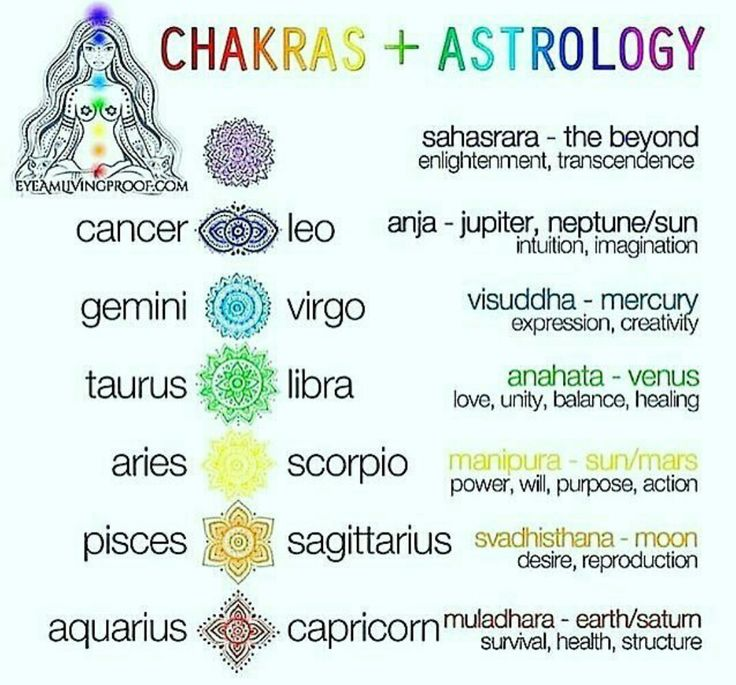
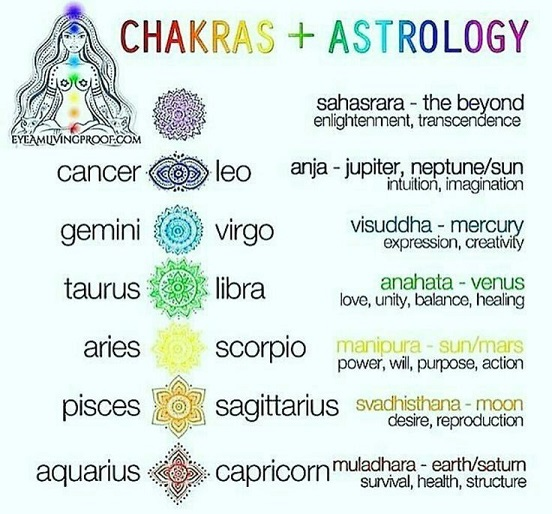
changes to chakra img, css table, headers and paragraphs

diff --git a/index.html b/index.html
@@ -15,54 +15,53 @@
          <ul>
            <li><a href="#">Home</a></li>
            <li><a href="#dawn">Dawn</a></li>
-           <li><a href="#lyrics">Lyrics</a></li>
+           <li><a href="#age">Age</a></li>
            <li><a href="#great">Great</a></li>
            <li><a href="#rare">Rare</a></li>
            <li><a href="#pseudo">Pseudo</a></li>
+           <li><a href="#lyrics">Lyrics</a></li>
          </ul>
          </ul>
        </div>
      </nav>
       <article class="container">
 
-         <!-- Dawn image! -->
          <a id="dawn" target="_blank"> 
 <img src="images\dawn-739011_960_720.jpg">
 
          </a>
          <h1>Dawning of the Age of Aquarius</h1>
          <p class="funParagraph">As a child growing up in the sixties and seventies, I dreamed of that new utopian world.  In this 2022 world, we, the baby boomers, have solved hunger, poverty, and world peace.  The water and air is pure and clean.  We ride trains and subways that travel speeds over 200 miles an hour, vehicles fly and use garbage for fuel.  We take weekend trips to Jupiter and Saturn.</p>
-         <!-- Write your HTML in this file! -->
-         
+          
          <p id="testP" class="funParagraph"> The 1967 musical Hair, with its opening song "Aquarius" and in 1969, the 5th Dimensions sing the song and hits the top of the charts and the Aquarian age concept is brought to the attention of worldwide audience. The explosion of the hippie culture and New Age movements. A whole generation pushed for the promised a time of peace and harmony where everyone had the right to life, liberty, and the pursuit of happiness. </p>
          <!-- Write your HTML in this file! -->
          <p>  </p>
       </article>
       
       <article class="container">
-         <!-- Write your HTML in this file! -->
+                  
          <a id="age">
             <img src="images\conjuction3collage.jpg" alt="Aquarius age over Kansas City">
          </a>
+         <h1> Conjunction 21 December 2020, Age of Aquarius </h1>
          <p>Triple conjunction occurs when Jupiter appears to pass Saturn three times, in a zigzag pattern.  The last triple conjunction was on December 31, 1980, then again on March 4, 1981 and final on July 24, 1981. The most famous triplet is the Christmas star or “the Star of Bethlehem” which is said to have occurred during the birth of Jesus. </p>
          
-         <p> These five planets follow the same general path as they travel across our Earth’s sky. Conjunctions of planets are of great importance in Astronomy and Astrology. According to the Encyclopedia Britannica, "A superior conjunction occurs when Earth and the other planet are on opposite sides of the Sun, but all three bodies are again nearly in a straight line... "
+         <p> These five planets follow the same general path as they travel across our Earth’s sky.  Mercury, Venus, Mars, Jupiter, and Saturn are visible to the naked eye. Conjunctions of planets are of great importance in Astronomy and Astrology. According to the Encyclopedia Britannica, "A superior conjunction occurs when Earth and the other planet are on opposite sides of the Sun, but all three bodies are again nearly in a straight line... "
          </p> 
-         <p>Astronomy is a natural science that studies celestial objects (planets, moons, stars, and galaxies) and relevant phenomena like supernovas, gamma ray bursts, meteors, black holes, comets, and pulsars.  A conjunction, when two astronomical objects appear close to each other in the sky. The phase of a new moon is a conjunction between the sun and moon. Mercury, Venus, Mars, Jupiter, and Saturn are visible to the naked eye.   </p>
+         <p>Astronomy is a natural science that studies celestial objects (planets, moons, stars, and galaxies) and relevant phenomena like supernovas, gamma ray bursts, meteors, black holes, comets, and pulsars.  A conjunction, when two astronomical objects appear close to each other in the sky. The phase of a new moon is a conjunction between the sun and moon.    </p>
        </article> 
 
       <article class="container">
-        <a id="great">Great Conjunction
+        <a id="great">
           <img src="images\120_Year_ Conjunction_Beg.PNG" alt="Alignment of 3 celestial bodies equals great conjunction">
         </a>
          <!-- Write your HTML in this file! -->
          <h1>Great Conjunction</h1>
-         <p>A conjunction of the planets Jupiter and Saturn, when the two planets appear closest together in the sky. Great conjunctions occur approximately every 20 years when Jupiter "overtakes" Saturn in its orbit. They are named "great" for being by far the rarest of the conjunctions between naked-eye planets[1] (i.e. excluding Uranus and Neptune).
-         </p>
+         <p>A conjunction of the planets Jupiter and Saturn, when the two planets appear closest together in the sky. Great conjunctions occur approximately every 20 years when Jupiter "overtakes" Saturn in its orbit. They are named "great" for being by far the rarest of the conjunctions between naked-eye planets.</p>
          <a id="Cycle20">
           <img src="images\conjunction Jupiter Saturn.JPG" alt="Saturn Jupiter Conjunctions over a Life span">
         </a>
-         <p>The spacing between the planets varies from conjunction to conjunction with most events 1 to 2.5 times the width of a full moon (30 to 78 arcminutes). Very close conjunctions happen much less frequently and separations of less than 10 arcminutes have only happened four times since 1200, most recently in 2020.[2] </p> 
+         <p>The spacing between the planets varies from conjunction to conjunction with most events 1 to 2.5 times the width of a full moon (30 to 78 arcminutes). Very close conjunctions happen much less frequently and separations of less than 10 arcminutes have only happened four times since 1200, most recently in 2020. </p> 
         
        </article> 
 
@@ -79,20 +78,13 @@
          <p>On extraordinarily rare occasions, a great conjunction is so close that Jupiter passes directly in front of Saturn. If Jupiter partially obscures Saturn, the event is known as a transit. If Jupiter completely covers Saturn, it is called an occultation.</p>
          
           <p>Over the next 10,000 years, Jupiter will transit or occult Saturn three times: February 16, 7541 (a transit); June 17, 7541 (an occultation); and February 25, 8674 (a transit). </p>
-         <!-- Write your HTML in this file! -->
-         
-       </article>
-
-      
-      
+        </article>
 
        <article class="container">  
-         
-         <p></p>
-         
          <a id="pseudo">
           <img src="images\20220208_152221.jpg" alt="Seven Chakras">
          </a>
+         <h1>The Pseudo-Sciences using Astronomy</h1>
          <p>One of the seven planets rule each chakra.  Each chakra interacts with the nature of its ruling planet, we harmonize the chakras energy inside our body. </p>
          <table>
            <tr>
@@ -120,34 +112,27 @@
            </tr>
          </table>
          <article class="container">
-          <a id="chakras">
+            <p>Astrology uses the natural science of astronomy, the movements and relative positions of celestial objects to earth, to discern and predict information about human affairs and events on earth. Your astrological birth chart shows the positions of the planets when you were born. </p>
+           <a id="chakras">
             <img src="images\ChakrasAstrology.jpg" alt="Chakras and Astrology">
-           </a>
-           <!-- Write your HTML in this file! -->
-           <p>Astrology uses the natural science of astronomy, the movements and relative positions of celestial objects to earth, to discern and predict information about human affairs and events on earth. Your astrological birth chart shows the positions of the planets when you were born. </p>
-           <p> </p> 
+           </a> 
          </article> 
-  
-        
          <article class="container">
           <!-- Write your HTML in this file! -->
-          
+        <h1>Aquarius, the Lyrics of the Great Conjunction</h1>
          <p>The song got it wrong.  In 1967 we were still in the Age of Pisces: the age of compassion and sacrifice for an ideal or others. It was the Age of Christianity and Buddhism. It was also the age of the crusades, the age of iron and steel, slavery in Americas, and World Wars I and II.  Over 50 years to soon and 911 still to occur.  </p> 
          <a id="lyrics">
           <img src="images\Aquarius lyrics.JPG" alt="Lyrics to Acquarius">
          </a>
           <p>The song got it wrong. Yes, the Age of Aquarius: is the age of Brotherhood but Jupiter doesn't align with Mars but Jupiter aligns with Saturn in a great conjunction.  The US Congress is devoid of brotherhood, the US capital was stormed by citizens to deny the peoples vote to count. </p>
-          <p>The Age of Aquarius: the age of Reason and Science.  We have science but lack the will to get it done and cure the planet.  But there is hope we will get it done before the  next age in 21 hundred plus years. </p>
+          <p>The Age of Aquarius: the age of Reason and Science.  The polar ice capes are melting, the seas are rising, and the seasons are merging and diverging.  We have the science but do we lack the will to get it done and cure the planet?  But there is hope we will get it done before the  next age in 21 hundred plus years or before the planet rebels against us.  </p>
           <p> </p>
-          
-        </article>
-         <a id="RoseAtChristmas">
-          <img src="images\20211225_135234.jpg" alt="RoseAtChristmas">
-         </a>
-       </article class="container">
+        </article>        
          <footer>
-         
-         <p>Author: Andrea Ingram &#xf25c;<br>
+          <a id="RoseAtChristmas">
+            <img src="images\20211225_135234.jpg" alt="RoseAtChristmas 2021">
+           </a>
+         <p>Author: Andrea Ingram &#8482;<br>
          <a href="mailto:arionly20@gmail.com">arionly20@gmail.com</a></p>
        </footer>
       <!-- Write your HTML in this file! -->

diff --git a/styles.css b/styles.css
@@ -30,3 +30,25 @@ p{
     background: none;
     padding: 10px;
 }
+img{
+    display: block;
+    margin-left: auto;
+    margin-right: auto;
+}
+table{
+    display: block;
+    column-gap: normal;
+}
+tr:nth-child(even) {
+    background-color: rgb(188, 229, 229);
+    
+}
+th  {
+    background-color: aquamarine;
+    padding: 3px;
+    text-align: left;
+}
+td  {
+    padding: 5px;
+    text-align: left;
+}
